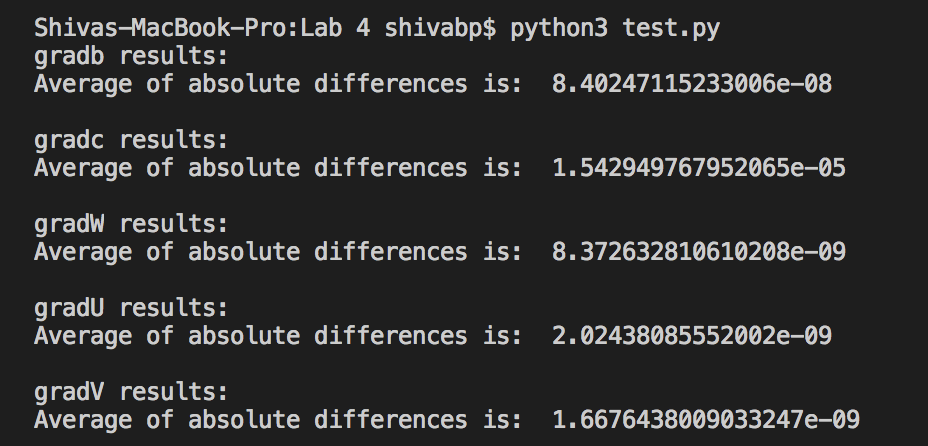
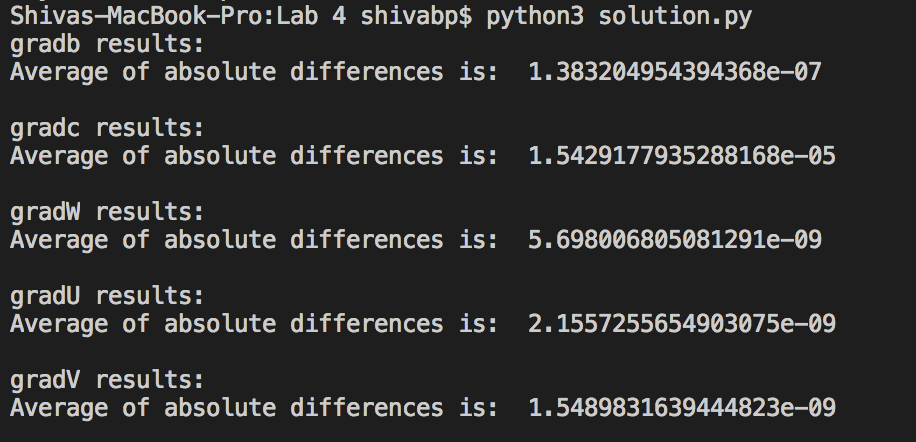
now it works

diff --git a/Lab 4/solution.py b/Lab 4/solution.py
@@ -2,7 +2,7 @@ import numpy as np
 import matplotlib.pyplot as plt
 
 k = 0
-m = 5
+m = 100
 eta = 0.1
 seq_length = 25
 
@@ -36,7 +36,6 @@ def mapContainers(chars):
         charToInd[chars[i]] = i
     for i in range(0, len(chars)):
         indToChar[i] = chars[i]
-
     return charToInd, indToChar
 
 
@@ -48,28 +47,29 @@ def charToOneHot(charToInd, bookData):
 
 
 def synthesis(b, c, h, u, v, w, x0, n):
-    y = []
-    for i in range(0, n):
-        a = np.dot(w, h) + np.dot(u, x0) + b
+    y = list()
+    x = x0
+    for i in range(n):
+        a = np.dot(w, h) + np.dot(u, x) + b
         h = np.tanh(a)
         o = np.dot(v, h) + c
         p = np.exp(o) / np.sum(np.exp(o), axis=0)
         cp = np.cumsum(p, axis=0)
         a = np.random.rand()
-        ixs = np.where(cp - a > 0)
+        ixs = np.nonzero(cp - a > 0)
         ii = ixs[0][0]
-        x0 = np.zeros(np.array(x0.shape))
-        x0[ii] = 1
-        y.append(x0)
+        x = np.zeros((k, 1))
+        x[ii][0] = 1
+        y.append(x)
     return y
 
 
 def OneHottoChar(y, indToChar):
-    seq = ''
+    sequence = ''
     for i in range(len(y)):
         ind = np.where(y[i] != 0)
-        seq += indToChar[ind[0][0]]
-    return seq
+        sequence += indToChar[ind[0][0]]
+    return sequence
 
 
 def evaluateClassifier(X, Y, b, c, h, u, v, w):
@@ -83,7 +83,7 @@ def evaluateClassifier(X, Y, b, c, h, u, v, w):
         H[t] = np.tanh(at)
         ot = np.dot(v, H[t]) + c
         P[t] = np.exp(ot) / np.sum(np.exp(ot))
-        loss += -np.log(np.dot(Y[:, t], P[t]))
+        loss += -np.log(np.dot(Y[:, t].T, P[t]))
     return P, H, loss
 
 
@@ -101,21 +101,16 @@ def computeGradAnalytic(P, H, X, Y, b, c,  u, v, w):
         dv += np.dot(g, H[t].T)
         dc += g
         dh = (np.dot(v.T, g) + np.dot(w.T, da))
-        da = dh * (1 - H[t] ** 2)
+        da = dh * (1 - (H[t] ** 2))
         dw += np.dot(da, H[t-1].T)
         db += da
         du += np.dot(da, Xt.T)
+        # clip the gradioents
         du = np.maximum(np.minimum(du, 5), -5)
         dw = np.maximum(np.minimum(dw, 5), -5)
         dv = np.maximum(np.minimum(dv, 5), -5)
         db = np.maximum(np.minimum(db, 5), -5)
         dc = np.maximum(np.minimum(dc, 5), -5)
-    # clip the gradioents
-    du = np.maximum(np.minimum(du, 5), -5)
-    dv = np.maximum(np.minimum(dv, 5), -5)
-    dw = np.maximum(np.minimum(dw, 5), -5)
-    db = np.maximum(np.minimum(db, 5), -5)
-    dc = np.maximum(np.minimum(dc, 5), -5)
     return dw, dv, du, db, dc, H[-1]
 
 
@@ -195,14 +190,14 @@ def computeGradNbumeric(X, Y, b, c, h0,  u, v, w):
 def checkGradients():
     book_data, chars = init()
     charToInd, indToChar = mapContainers(chars)
-    h, b, c, u, w, v = initWeights()
+    h0, b, c, u, w, v = initWeights()
     X_chars = book_data[0:seq_length]
     Y_chars = book_data[1:seq_length + 1]
     X = charToOneHot(charToInd, X_chars)
     Y = charToOneHot(charToInd, Y_chars)
-    P, H, loss = evaluateClassifier(X, Y, b, c, h, u, v, w)
-    dw1, dv1, du1, db1, dc1, H = computeGradAnalytic(P, H, X, Y, b, c, u, v, w)
-    dw2, dv2, du2, db2, dc2 = computeGradNbumeric(X, Y, b, c, h,  u, v, w)
+    P, H, loss = evaluateClassifier(X, Y, b, c, h0, u, v, w)
+    dw1, dv1, du1, db1, dc1, h = computeGradAnalytic(P, H, X, Y, b, c, u, v, w)
+    dw2, dv2, du2, db2, dc2 = computeGradNbumeric(X, Y, b, c, h0,  u, v, w)
     print("gradb results:")
     print('Average of absolute differences is: ',
           np.mean(np.abs(db1 - db2)), "\n")
@@ -220,10 +215,11 @@ def checkGradients():
           np.mean(np.abs(dv1 - dv2)), "\n")
 
 
-def training():
+def training(maxIter):
     book_data, chars = init()
     charToInd, indToChar = mapContainers(chars)
-    hprev, b, c, u, w, v = initWeights()
+    h0, b, c, u, w, v = initWeights()
+    h = h0
     Ustore = list()
     Vstore = list()
     Wstore = list()
@@ -236,38 +232,35 @@ def training():
     mV = np.zeros((v.shape[0], v.shape[1]))
     e = 0
     iteration = 0
-    epoch = 0
     smoothLoss = -np.log(1 / k) * seq_length
     smoothLossStore = list()
-    while iteration < 100000:
-        if (iteration == 0 or e >= len(book_data) - seq_length - 1):
+    while (iteration < maxIter):
+        if (iteration == 0 or e >= (len(book_data) - seq_length - 1)):
             e = 0
-            hprev = np.zeros((m, 1))
-            epoch = epoch + 1
+            h = h0
         X_chars = book_data[e: e + seq_length]
         Y_chars = book_data[e + 1: e + 1 + seq_length]
         X = charToOneHot(charToInd, X_chars)
         Y = charToOneHot(charToInd, Y_chars)
-        P, H, loss = evaluateClassifier(X, Y, b, c, hprev, u, v, w)
-        dw, dv, du, db, dc, hprev = computeGradAnalytic(
+        P, H, loss = evaluateClassifier(X, Y, b, c, h, u, v, w)
+        dw, dv, du, db, dc, hRet = computeGradAnalytic(
             P, H, X, Y, b, c,  u, v, w)
-        smoothLoss = .999 * smoothLoss + .001 * loss
+        h = hRet
+        smoothLoss = (.999 * smoothLoss) + (.001 * loss)
         smoothLossStore.append(smoothLoss)
         if (iteration % 10000 == 0):
-            print("-" * 100)
-            print("Synth text iteration " + str(iteration))
-            y = synthesis(b, c, hprev, u, v, w, X[:, 0], n=200)
+            print("'Text synthesized at iteration:   " + str(iteration) + "\n")
+            y = synthesis(b, c, h, u, v, w, X[:, 0], n=200)
             text = OneHottoChar(y, indToChar)
-            print(text)
-            print("-" * 70)
+            print(text, "\n\n")
         # AdaGrad update
         grads = [dw, dv, du, db, dc]
         weights = [w, v, u, b, c]
         ms = [mW, mV, mU, mb, mc]
         for paramIndex in range(5):
-            ms[paramIndex] = ms[paramIndex] + (grads[paramIndex]**2)
-            weights[paramIndex] = weights[paramIndex] - \
-                ((eta * grads[paramIndex]) / np.sqrt(ms[paramIndex] + 1e-8))
+            ms[paramIndex] += (grads[paramIndex]**2)
+            weights[paramIndex] += - \
+                (eta * grads[paramIndex]) / np.sqrt(ms[paramIndex] + 1e-8)
         Ustore.append(u)
         Wstore.append(w)
         Vstore.append(v)
@@ -275,7 +268,6 @@ def training():
         cstore.append(c)
         e += seq_length
         iteration += 1
-    # Exercise iv)
     bestIndex = np.argmin(smoothLossStore)
     bestU = Ustore[bestIndex]
     bestV = Vstore[bestIndex]
@@ -283,19 +275,14 @@ def training():
     bestb = bstore[bestIndex]
     bestc = cstore[bestIndex]
     print("Passage synthesized by the best model:")
-    y = synthesis(bestb, bestc, hprev, bestU, bestV, bestW, X[:, 0], n=1000)
-    text = OneHottoChar(y, indToChar)
-    print(text)
-    print("-" * 100)
-    plt.figure(1)
-    plt.plot(np.arange(iteration), smoothLossStore)
-    plt.xlabel('Iterations')
-    plt.ylabel('Smooth Loss')
-    plt.show()
+    yBEST = synthesis(bestb, bestc, h, bestU, bestV, bestW, X[:, 0], n=1000)
+    textBEST = OneHottoChar(yBEST, indToChar)
+    print(textBEST)
     return smoothLossStore
 
 
-def plot(iters, smoothLoss):
+def plot(maxIter, smoothLoss):
+    iters = np.arange(maxIter)
     plt.figure(1)
     plt.plot(iters, smoothLoss)
     plt.xlabel('Iterations')
@@ -303,6 +290,13 @@ def plot(iters, smoothLoss):
     plt.show()
 
 
+def lossEvolution():
+    maxIter = 300000
+    smoothLossStore = training(maxIter)
+    plot(maxIter, smoothLossStore)
+
+
 if __name__ == '__main__':
-    # checkGradients()
-    training()
+    checkGradients()  # i)
+    lossEvolution()  # ii)
+    training(100000)  # iii)  AND #iv)
